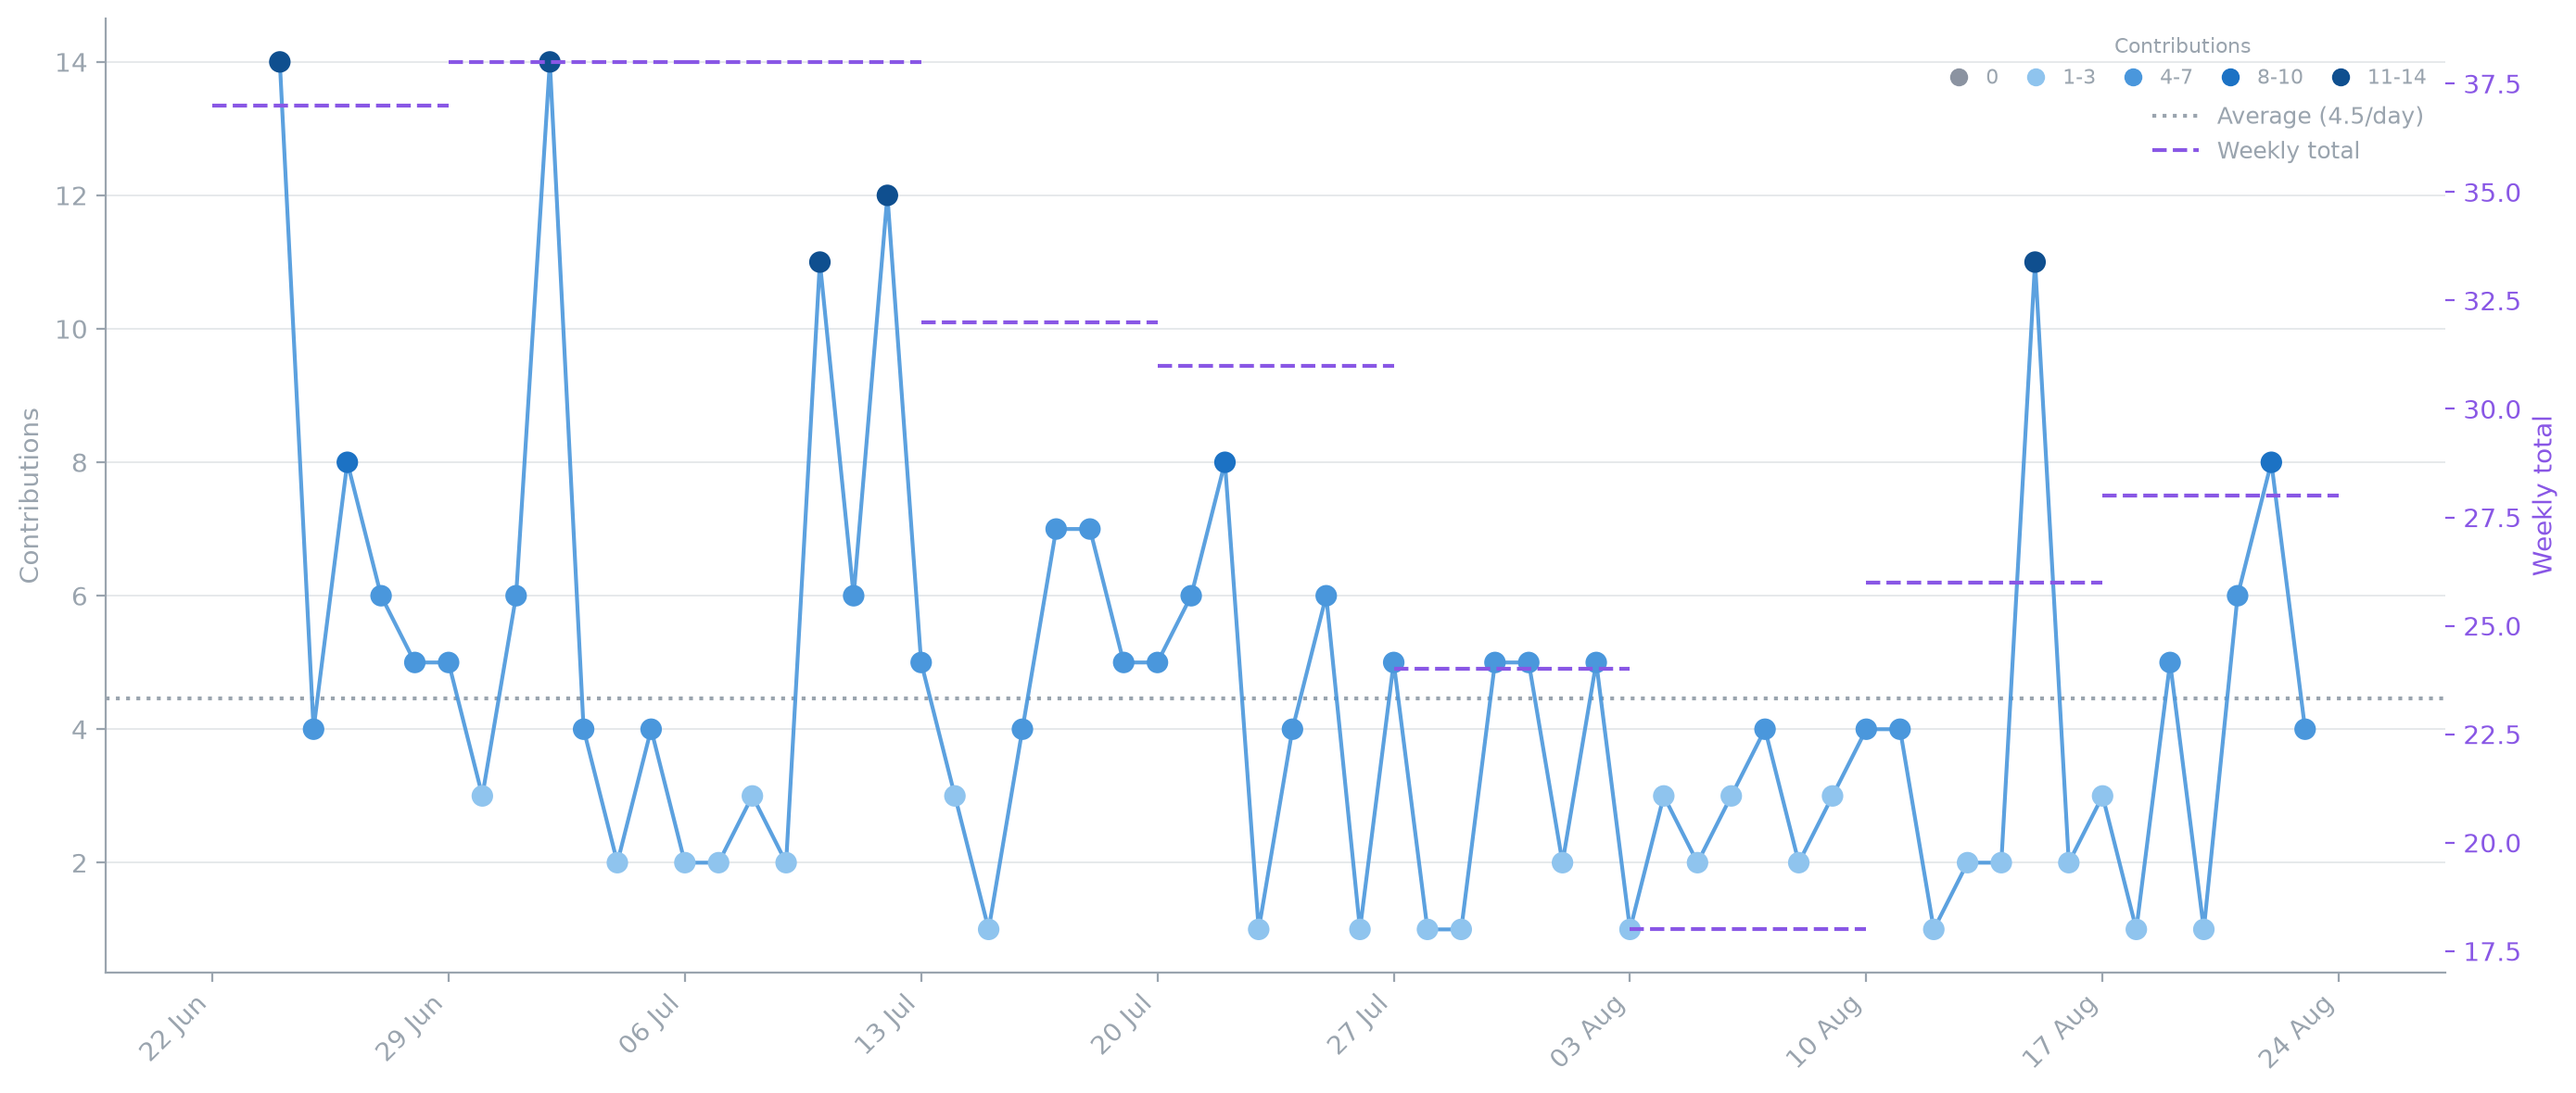
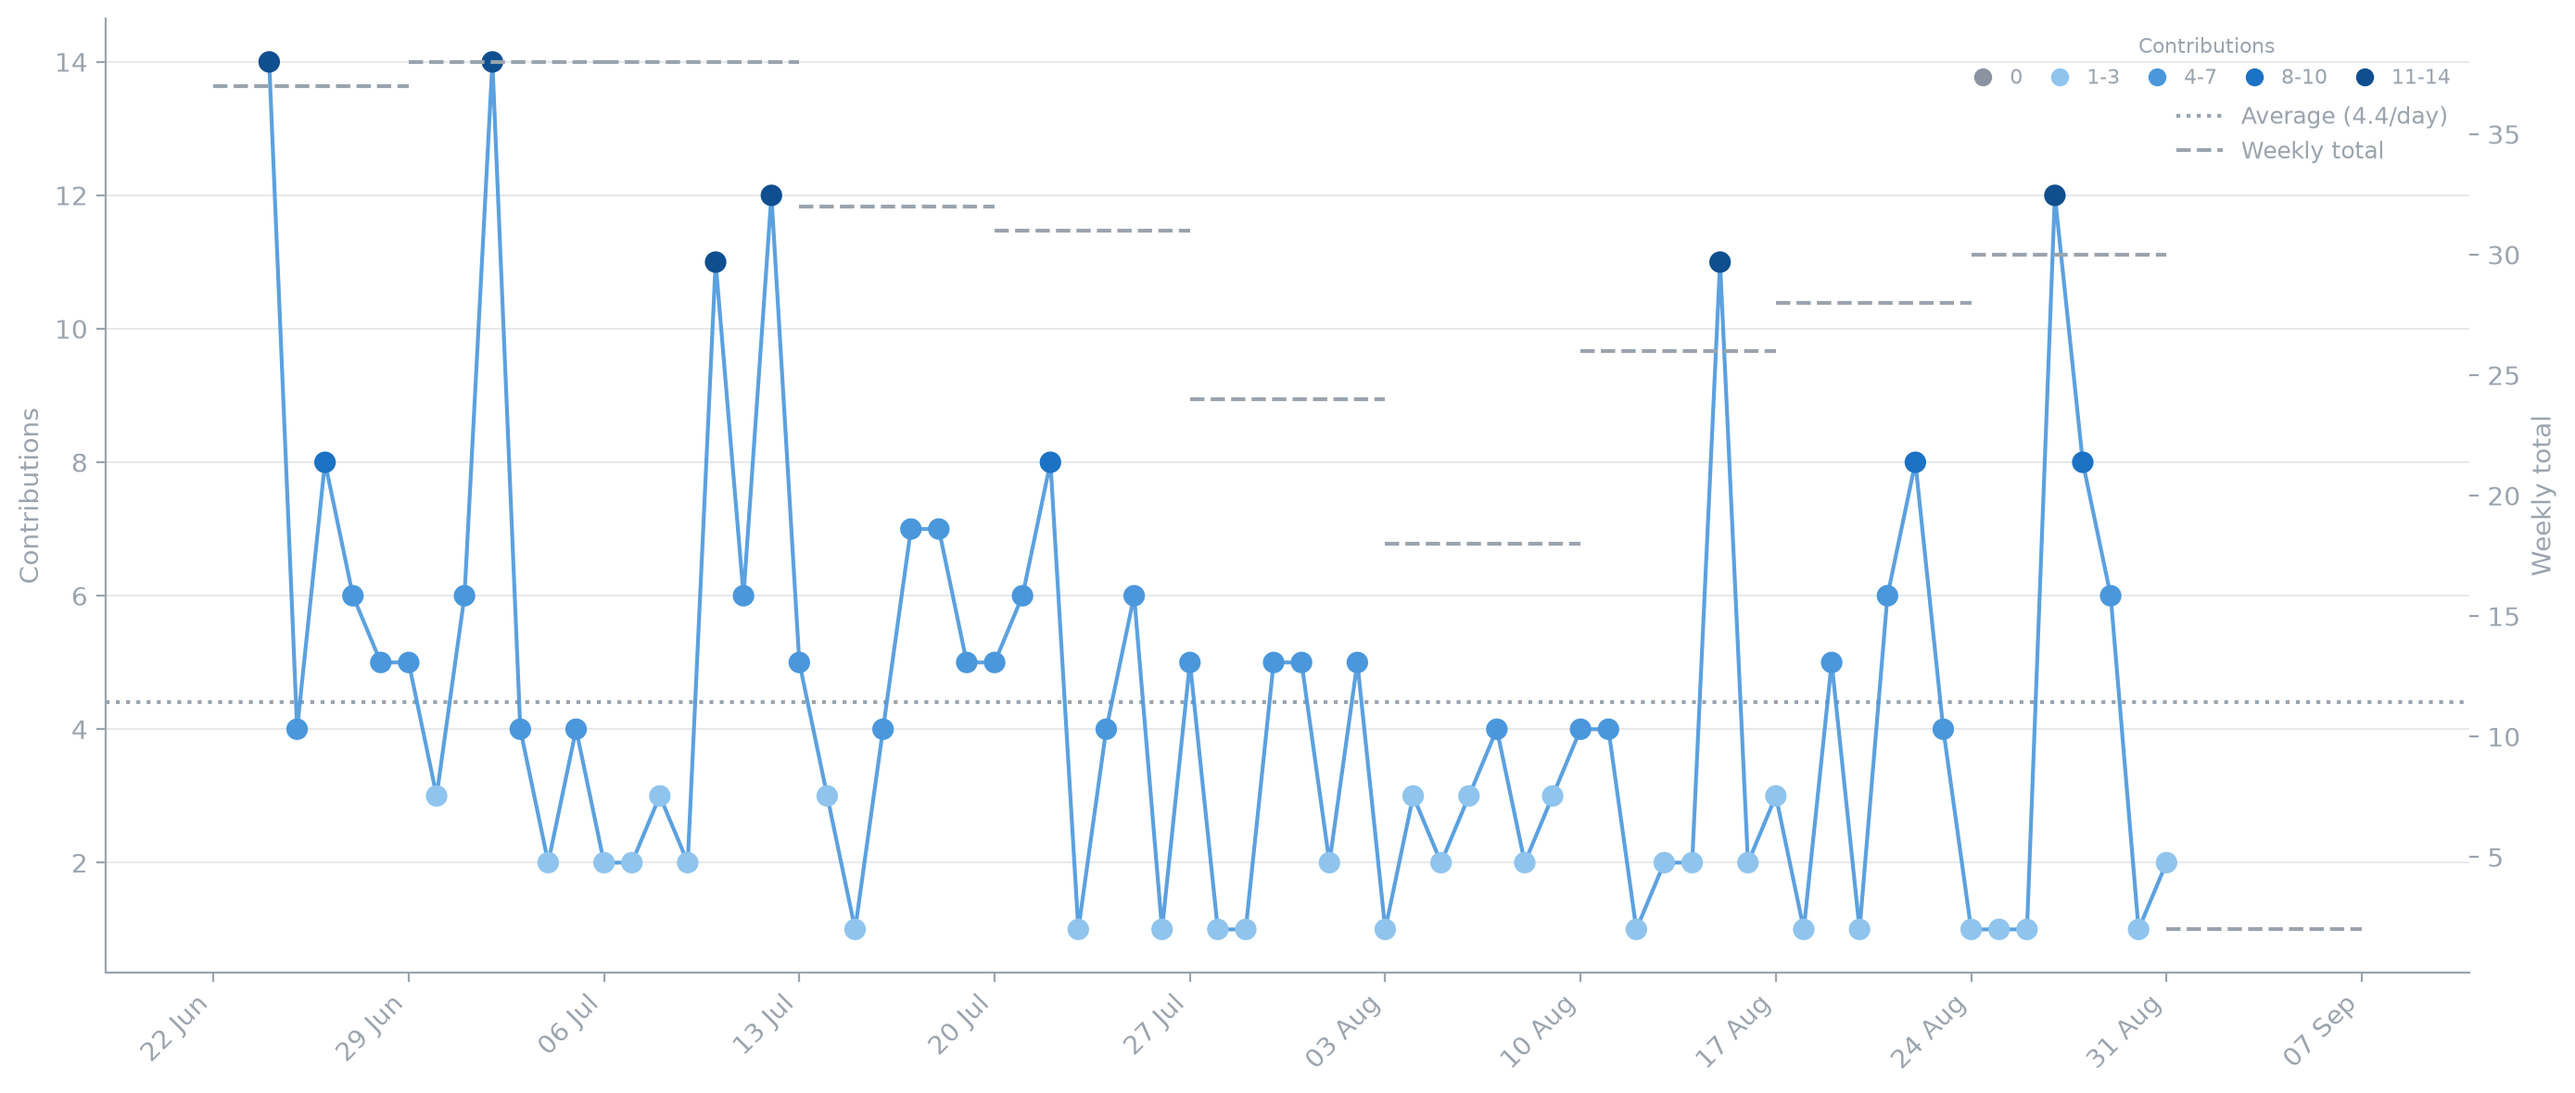
graph

diff --git a/archive_version_2/contributions.py b/archive_version_2/contributions.py
@@ -16,10 +16,13 @@ Usage:
 
 import argparse
 from datetime import datetime
+from pathlib import Path
 
 import matplotlib.dates as mdates
 import matplotlib.pyplot as plt
 import pandas as pd
+
+SCRIPT_DIR = Path(__file__).resolve().parent
 
 # --------------------------------------------------------------------------
 # Config
@@ -37,7 +40,7 @@ LEVEL_COLORS = {
 LEVEL_LABELS = ["0", "1-3", "4-7", "8-10", "11-14"]
 
 DAILY_LINE_COLOR = "#4a97dc"      # solid line connecting daily points
-WEEKLY_LINE_COLOR = "#8957e5"     # dashed step line, weekly total
+WEEKLY_LINE_COLOR = "#9aa4ae"     # dashed step line, weekly total
 AVERAGE_LINE_COLOR = "#9aa4ae"    # dotted horizontal reference line
 GRID_AXIS_COLOR = "#9aa4ae"       # light grey axis/grid/spines
 
@@ -126,8 +129,8 @@ def make_plot(df: pd.DataFrame, out_path: str) -> None:
             "--", color=WEEKLY_LINE_COLOR, linewidth=1.5, zorder=2,
         )
     ax2.plot([], [], "--", color=WEEKLY_LINE_COLOR, label="Weekly total")
-    ax2.set_ylabel("Weekly total", color=WEEKLY_LINE_COLOR)
-    ax2.tick_params(axis="y", colors=WEEKLY_LINE_COLOR)
+    ax2.set_ylabel("Weekly total", color=GRID_AXIS_COLOR)
+    ax2.tick_params(axis="y", colors=GRID_AXIS_COLOR)
     for spine in ax2.spines.values():
         spine.set_visible(False)
 
@@ -179,8 +182,8 @@ def make_plot(df: pd.DataFrame, out_path: str) -> None:
 
 def main() -> None:
     parser = argparse.ArgumentParser(description=__doc__)
-    parser.add_argument("--csv", default="contributions.csv", help="Path to the contributions CSV file")
-    parser.add_argument("--out", default="contribution_graph.png", help="Path to write the output PNG")
+    parser.add_argument("--csv", default=str(SCRIPT_DIR / "contributions.csv"), help="Path to the contributions CSV file")
+    parser.add_argument("--out", default=str(SCRIPT_DIR / "contribution_graph.png"), help="Path to write the output PNG")
     parser.add_argument("--year", type=int, default=datetime.now().year, help="Year to assume for dates in the CSV")
     args = parser.parse_args()
 
